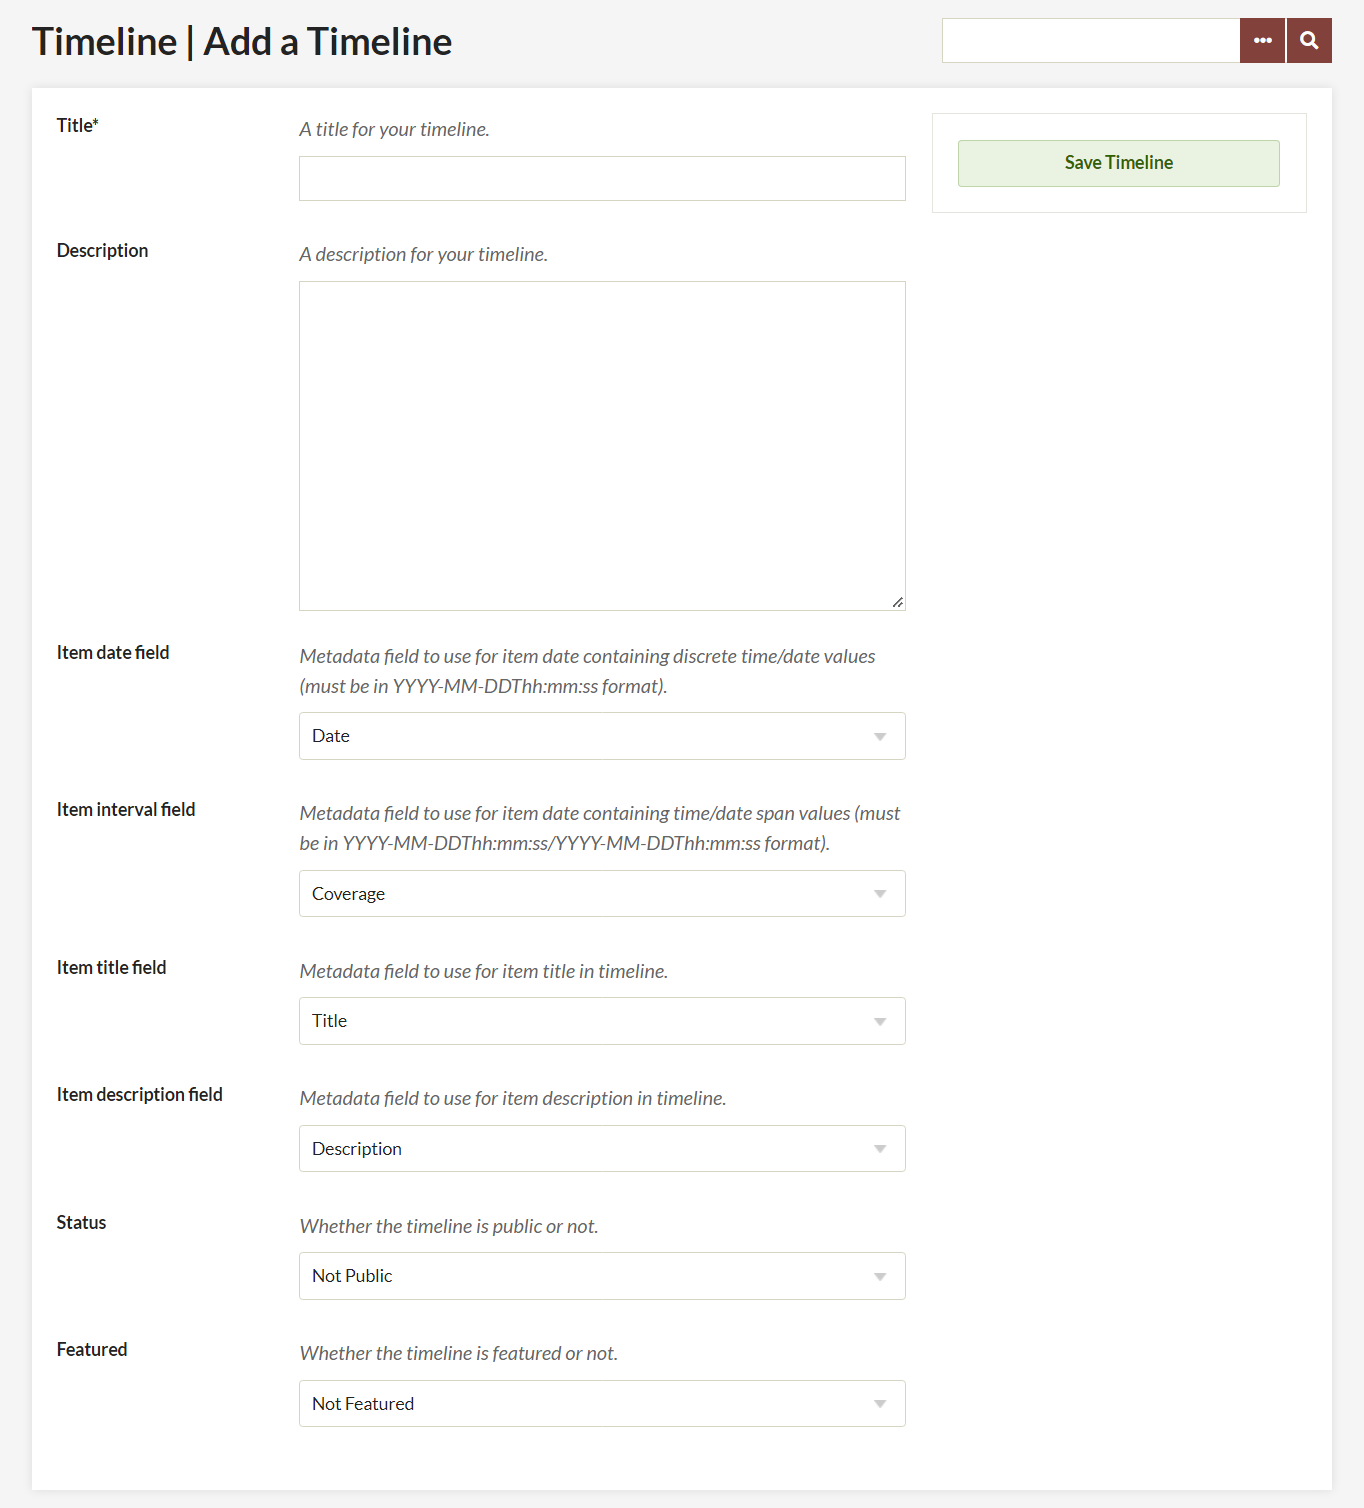
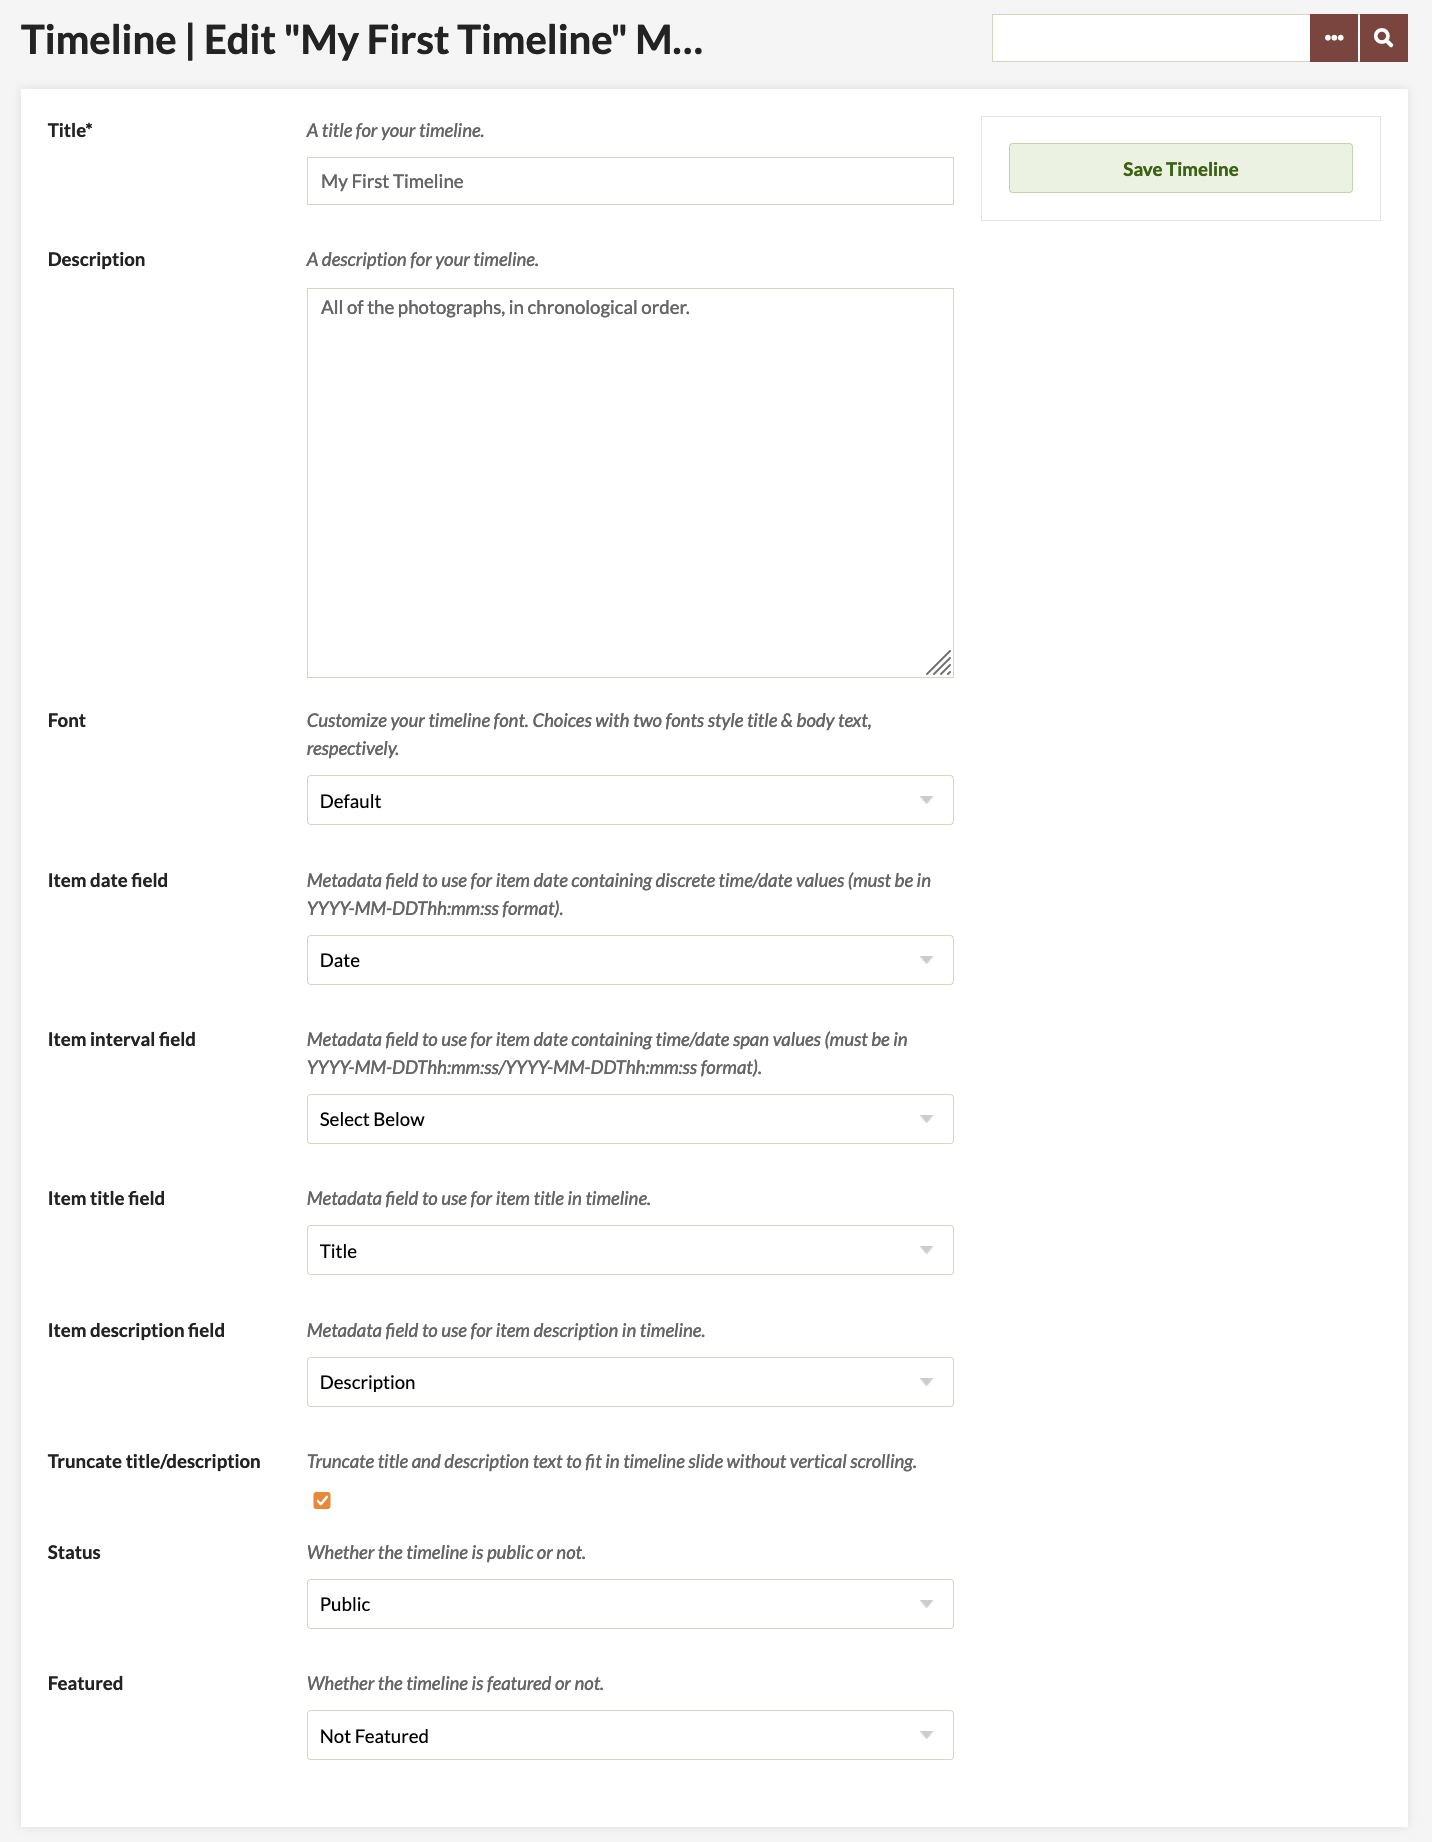
Timeline 1.1
New docs for https://github.com/omeka/plugin-Timeline/issues/13

diff --git a/docs/Plugins/Timeline.md b/docs/Plugins/Timeline.md
@@ -1,13 +1,21 @@
 # Timeline
 
-The [Timeline plugin](https://omeka.org/classic/plugins/Timeline/){target=_blank} allows you to add items to a timeline in your Omeka Classic site. Timelines can be displayed in pages using shortcodes, or as part of exhibits using the [Exhibit Builder plugin](ExhibitBuilder.md#additional-layouts).
+The [Timeline plugin](https://omeka.org/classic/plugins/Timeline/){target=_blank} allows you to add items to a timeline in your Omeka Classic site.
 
-Timeline dates and intervals must be in [ISO 8601](https://en.wikipedia.org/wiki/ISO_8601){target=_blank} format (`YYYY-MM-DDThh:mm:ss`), with a `/` separator between interval beginnings and ends. If date/interval values are not formatted correctly, the item will be left out of the timeline. 
+Timeline adds a public page to your navigation, with a textual list of all timelines. This list can be be reordered on the admin-side Timeline page in the left-hand sidebar. Each individual timeline also gets a URL that can be added to your navigation manually, or can be displayed in pages using shortcodes or as part of exhibits using the [Exhibit Builder plugin](ExhibitBuilder.md#additional-layouts).
 
-If an item has multiple date values or interval values, the Timeline plugin will accept the first properly formatted value (so, if you have textual dates such as "circa 1850" or "16??" Timeline will ignore these in favor of a numerical value).
-If an item has both a discrete date value and interval value in the fields mapped by timeline metadata, the interval value will take precedence over the date value. An item with an interval does not need to have a date value in this case. 
+Timeline [dates and intervals](#value-formatting) must be in [ISO 8601](https://en.wikipedia.org/wiki/ISO_8601){target=_blank} format (`YYYY-MM-DDThh:mm:ss`), with a `/` separator between interval beginnings and ends. If date/interval values are not formatted correctly, the item will be left out of the timeline.  
 
-## Creating a timeline
+If an item has multiple date values or interval values, the Timeline plugin will accept the first properly formatted value: so, if you have textual dates such as "circa 1850" or "16??" Timeline will ignore these in favor of a numerical value.
+If an item has both a discrete date value and interval value in the fields mapped by timeline metadata, the interval value will take precedence over the date value. An item with an interval does not need to have a discrete date value. 
+
+## Admin interface
+
+The Timeline plugin will add a new link to the admin sidebar, "Timeline". Here you will see existing timelines and be able to rearrange them for the public display on the `yourinstall/timeline` page. This order can be reset with the "Reset Timeline order" button. 
+
+You can add a new timeline from this page, or edit either part of existing timelines. You can also delete timelines; you will see a confirmation window. 
+
+### Creating a timeline
 
 Once you have installed and activated the Timeline plugin, Timeline should appear in the left navigation bar. Clicking on it will take you to the Browse Timelines page.
 
@@ -17,22 +25,26 @@ To create a timeline, click the "Add a Timeline" link.
 
 On the Add a Timeline page, enter the following metadata:
 
-- Title: the name of your timeline, which will be displayed to users
-- Description: an introduction or overview for the timeline
-- Item Date: a dropdown to select the metadata field to use for item date containing discrete time/date values
-- Item Interval: a dropdown to select the metadata field to use for item date containing time/date span values (must use a `/` separator between two ISO 8601 formatted dates)
-- Item Title: a dropdown to select the metadata field to use for item titles
-- Item Description: a dropdown to select the metadata field to use for item descriptions
-- Status: a dropdown to select whether the timeline is public or not public
+- Title: the name of your timeline, which will be displayed to users (required).
+- Description: an introduction or overview for the timeline.
+- Font: choose from several pre-set combinations of title and description fonts.
+- Item date: a dropdown to select the metadata field to use for item date containing discrete time/date values.
+- Item interval: a dropdown to select the metadata field to use for item date containing time/date span values (the chosen field must use a `/` separator between two ISO-8601 formatted dates).
+- Item title: a dropdown to select the metadata field to use for item titles.
+- Truncate: if checked, the textual part of each slide will not offer vertical scrolling when needed; instead, the text will fade out at the bottom of the timeline slide.
+- Item description: a dropdown to select the metadata field to use for item descriptions.
+- Status: a dropdown to select whether the timeline is public or not public.
 - Featured: a dropdown to select whether the timeline is featured or not featured.
 
-Once you have entered the metadata, click "Save Changes" to create your timeline. If your timeline was sucessfully saved, you will be returned to the Browse Timelines page and your new timeline will now be listed there. If you would like to change the metadata for your timeline, click "Edit Metadata".
+Once you have entered the metadata, click "Save Changes" to create your timeline. If your timeline was sucessfully saved, you will be taken to the Query page to add items to your timeline. 
+
+To edit the timeline's settings later, such as to change the font choice or other display, go back to the Timeline homepage (found at `/admin/timeline`) and select "Edit Metadata" for the timeline in question. Or, you can click the timeline's title to go to its summary page, and click "Edit Metadata" from there.
 
 ![Existing timelines listed on browse timeline page](../doc_files/plugin_images/timeline_browse.png)
 
-## Adding items
+### Adding items
 
-Your timeline will appear empty until you populate it. To add items to your timeline, click "Edit Item Query".
+Your timeline will appear empty until you populate it. To add items to your timeline, click "Edit Item Query" on the Timeline homepage (found at `/admin/timeline`) or from the specific timeline's summary page (found at `/admin/timeline/show/1` where 1 is the ID number of the timeline). 
 
 ![Search options for editing item query](../doc_files/plugin_images/timeline_query.png)
 
@@ -46,17 +58,25 @@ On the edit page, you can add items via the following fields:
  - Search by User
  - Search by Tags
  - Public/Non-Public
- - Featured/Non-Featured
+ - Featured/Non-Featured.
+
+As well, plugins can add more search fields, such as:
+
+ - Geolocation search
  - Search by Exhibit
  - Item Relations.
 
 You can add items using one or any combination of these fields. For instance, if you know that the majority of the content for the timeline is contained in a single exibit you would want to select that exhibit in the corresponding dropdown. If you wanted to be sure you did not miss any relevant items that were not included in that exhibit, you may want to use the "Specific Fields" search to include any items mentioning the topic in their metadata that are not part of that exhibit. Or, you may want to search by a specific user if you only want to include that person's work. By adjusting the fields you can expand or narrow the scope of items included on your timeline.
 
-Once you have filled in all the desired search fields, click "Search for Items". This will add all relevant items to your timeline.
+Once you have filled in all the desired search fields, click "Search for items". This will add all relevant items to your timeline.
+
+### Timeline summary page
 
 ![Timeline populated based on query](../doc_files/plugin_images/timeline_populated.png)
 
-To further add or remove items from your timeline, you can adjust you query by clicking "Edit Item Query". If you click "Delete", you will delete the entire timeline and its metadata. To see the public view of your timeline, click "View Public Page".
+Each timeline will have a summary page (found at `/admin/timeline/show/1` where 1 is the ID number of the timeline). Here you can see a preview of the timeline to confirm it is loading the correct items from the query; you can also view the public page of the timeline to see the same thing with its display settings and in your theme. 
+
+You can adjust the metadata and display settings with the "Edit Metadata" button. To further add or remove items from your timeline, you can adjust your query by clicking "Edit Item Query". If you click "Delete", you will delete the entire timeline and its metadata. To see the public view of your timeline, click "View Public Page".
 
 ### Value formatting
 
